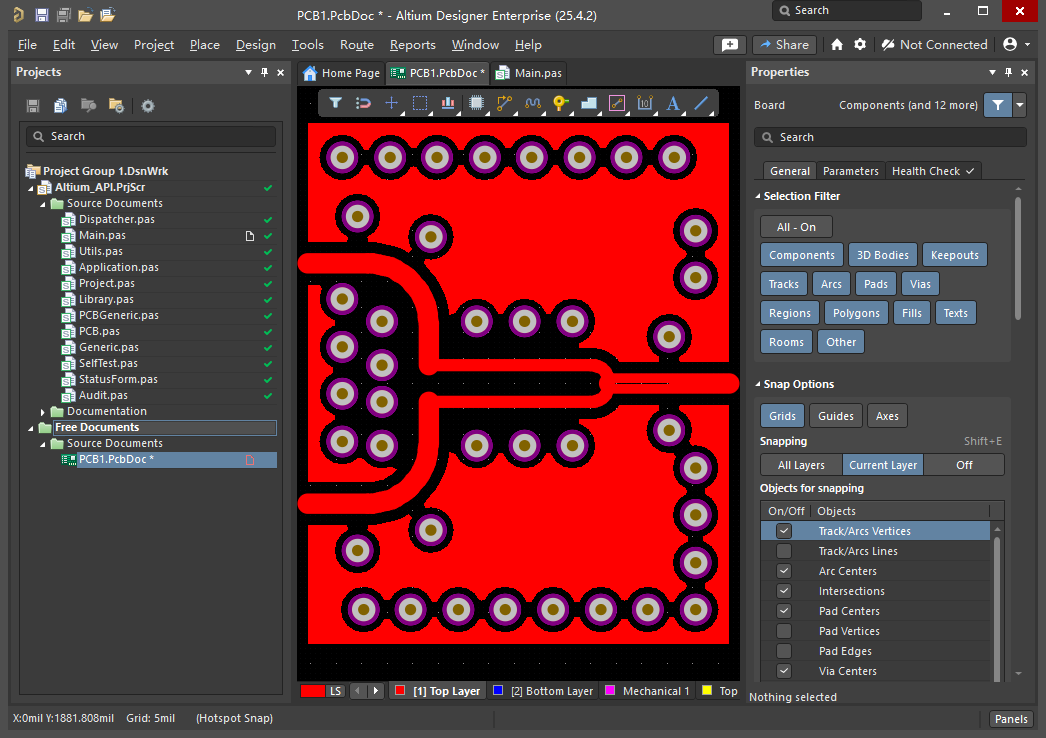
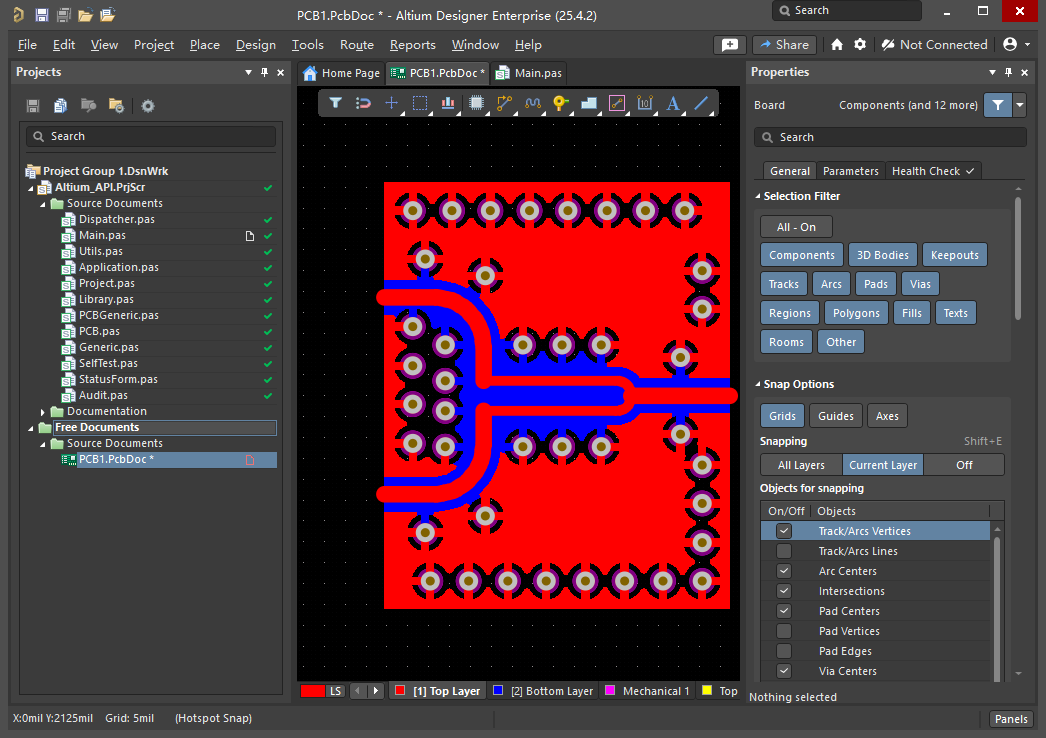
Give the board its ground plane, and its nets
Two bugs that only a real write could find, both caught by looking at
the board rather than at the return values.

The net list was comma-joined; the bridge splits it on "|". Altium
created one net named "RF_IN,GND" and reported success, after which
every track, via and pour asking for "RF_IN" or "GND" missed its lookup
and landed with no net. 87 tracks and 41 vias, all electrically
inert, and nothing anywhere said so.

The writer also never placed a ground plane. The EM model rests on a
solid conductor at z=0 -- that is what the PEC outer boundary is, and
what all 41 stitching vias are drilled down to reach -- but only the
top-side coplanar pour was ever written. The vias landed on bare
laminate and the top pour stayed in the three separate islands its own
traces cut it into. Altium reported five unrouted GND connections and
was right.

WritePlan.polygon becomes WritePlan.polygons, and the ground layer is a
constructor argument rather than an assumption.

After the fix, read back from the live board: tracks, vias, both pours,
every net assignment and unrouted count all match the plan, and all 87
segment coordinates and 41 via positions match exactly.

Three tests pin it: the net list must not be comma-joined, every track
and via must carry a net the plan actually creates, and a ground plane
spanning the routed area must exist.

Changed region(s): [[0.2753, 0.1558, 0.7036, 0.8726], [0.0612, 0.9661, 0.2753, 0.9973]]

diff --git a/src/rf_agent/export/altium.py b/src/rf_agent/export/altium.py
@@ -186,7 +186,7 @@ class WritePlan:
     vias: list[dict] = field(default_factory=list)
     nets: list[str] = field(default_factory=list)
     outline: tuple[int, int, int, int] | None = None
-    polygon: dict | None = None
+    polygons: list[dict] = field(default_factory=list)
     rules: list[dict] = field(default_factory=list)
 
     def summary(self) -> dict:
@@ -195,7 +195,7 @@ class WritePlan:
             "n_vias": len(self.vias),
             "nets": self.nets,
             "outline_mils": list(self.outline) if self.outline else None,
-            "polygon": self.polygon,
+            "polygons": self.polygons,
             "rules": self.rules,
         }
 
@@ -209,9 +209,13 @@ class AltiumWriter:
         layer: str = "TopLayer",
         gnd_net: str = "GND",
         timeout: float = 60.0,
+        ground_layer: str = "BottomLayer",
     ):
         self.origin = origin_mils
         self.layer = layer
+        # The reference conductor the stackup is built on. Every via drops
+        # to it and the top pour's islands are tied together through it.
+        self.ground_layer = ground_layer
         self.gnd_net = gnd_net
         self.timeout = timeout
         self._bridge = None
@@ -363,17 +367,35 @@ class AltiumWriter:
                 }
             )
 
-        # The coplanar ground: one polygon over the board on the signal
-        # layer, poured around the RF nets by the clearance rule below.
-        p.polygon = {
-            "x1": p.outline[0],
-            "y1": p.outline[1],
-            "x2": p.outline[2],
-            "y2": p.outline[3],
-            "net": self.gnd_net,
-            "layer": self.layer,
-            "pour_over": False,
-        }
+        # Two pours, and both are load-bearing.
+        #
+        # The signal layer carries the coplanar ground, poured around the
+        # RF nets by the clearance rule below. The traces cut it into
+        # several islands -- on this divider, an upper half, a lower half
+        # and a pocket between the outputs.
+        #
+        # The bottom layer carries the ground plane those islands are tied
+        # together through, and that every stitching via is drilled down
+        # to reach. It is not decoration: the EM model is built on a solid
+        # conductor at z=0, so a board without it is not the board that
+        # was simulated. Omitting it leaves the vias landing on bare
+        # laminate and the top pour in electrically separate pieces.
+        p.polygons = [
+            {
+                "x1": p.outline[0], "y1": p.outline[1],
+                "x2": p.outline[2], "y2": p.outline[3],
+                "net": self.gnd_net,
+                "layer": self.layer,
+                "pour_over": False,
+            },
+            {
+                "x1": p.outline[0], "y1": p.outline[1],
+                "x2": p.outline[2], "y2": p.outline[3],
+                "net": self.gnd_net,
+                "layer": self.ground_layer,
+                "pour_over": True,
+            },
+        ]
 
         gap_mil = max(1, mm_to_mil(spec.stackup.gap_mm))
         p.rules = [
@@ -427,7 +449,12 @@ class AltiumWriter:
                 steps.append({"step": name, "ok": False, "error": f"{type(e).__name__}: {e}"})
                 return None
 
-        step("nets", "pcb.create_nets_from_list", {"nets": ",".join(plan.nets)})
+        # Pipe-separated, not comma. The bridge splits this list on "|",
+        # so a comma-joined string arrives as a single net literally named
+        # "RF_IN,GND" -- which then makes every later lookup of "RF_IN" or
+        # "GND" miss, and every track, via and the pour lands with no net
+        # at all. The copper looks perfect and is electrically inert.
+        step("nets", "pcb.create_nets_from_list", {"nets": "|".join(plan.nets)})
 
         if create_rule:
             for r in plan.rules:
@@ -480,19 +507,19 @@ class AltiumWriter:
             steps = [s for s in steps if s["step"] != "via"]
             steps.append({"step": "vias", "ok": failed == 0, "placed": placed, "failed": failed})
 
-        if place_pour and plan.polygon:
-            g = plan.polygon
-            step(
-                "polygon",
-                "pcb.place_polygon_rect",
-                {
-                    "x1": str(g["x1"]), "y1": str(g["y1"]),
-                    "x2": str(g["x2"]), "y2": str(g["y2"]),
-                    "net": g["net"], "layer": g["layer"],
-                    "pour_over": "false",
-                },
-                timeout=120.0,
-            )
+        if place_pour:
+            for g in plan.polygons:
+                step(
+                    f"polygon:{g['layer']}",
+                    "pcb.place_polygon_rect",
+                    {
+                        "x1": str(g["x1"]), "y1": str(g["y1"]),
+                        "x2": str(g["x2"]), "y2": str(g["y2"]),
+                        "net": g["net"], "layer": g["layer"],
+                        "pour_over": "true" if g["pour_over"] else "false",
+                    },
+                    timeout=120.0,
+                )
 
         step("save", "application.save_all", {}, timeout=120.0)
 

diff --git a/tests/test_export.py b/tests/test_export.py
@@ -68,9 +68,11 @@ def test_write_plan_is_resolvable_without_altium(design):
     for t in plan.tracks:
         assert isinstance(t["width"], int) and t["width"] >= 1
         assert (t["x1"], t["y1"]) != (t["x2"], t["y2"])
-    # the pour is a polygon on the signal layer carrying the ground net
-    assert plan.polygon["net"] == "GND"
-    assert plan.polygon["layer"] == "TopLayer"
+    # the coplanar pour on the signal layer, and the ground plane the
+    # vias drop to -- both on the ground net
+    layers = {g["layer"]: g for g in plan.polygons}
+    assert set(layers) == {"TopLayer", "BottomLayer"}
+    assert all(g["net"] == "GND" for g in plan.polygons)
     # and the clearance rule matches the EM model's coplanar gap
     assert plan.rules[0]["value"] == mm_to_mil(spec.stackup.gap_mm)
 
@@ -159,3 +161,69 @@ def test_electrically_separate_runs_keep_separate_nets(design):
     groups = AltiumWriter._net_groups(detached)
     assert groups[len(g.paths)] != groups[0]
     assert len(set(groups.values())) == 2
+
+
+def test_nets_are_pipe_separated_for_the_bridge(design, monkeypatch):
+    """The bridge splits the net list on "|".
+
+    Joined with a comma instead, the whole list arrives as one net named
+    "RF_IN,GND". Nothing errors: the nets command succeeds, and then every
+    track, via and polygon that asks for "RF_IN" or "GND" fails its lookup
+    silently and lands with no net. The board looks right in Altium and is
+    electrically inert -- the pour does not connect to its own stitching
+    vias. Caught on real hardware, so it is pinned here.
+    """
+    spec, g = design
+    w = AltiumWriter()
+    sent: list[tuple[str, dict]] = []
+
+    class Bridge:
+        def send_command(self, cmd, params, timeout=None):
+            sent.append((cmd, params))
+            return {"ok": True}
+
+    monkeypatch.setattr(AltiumWriter, "preflight", lambda self: {"ok": True})
+    monkeypatch.setattr(type(w), "bridge", property(lambda self: Bridge()))
+    w.write(g, spec)
+
+    nets = next(p for c, p in sent if c == "pcb.create_nets_from_list")["nets"]
+    assert "," not in nets, f"net list must not be comma-joined, got {nets!r}"
+    assert set(nets.split("|")) == {"RF_IN", "GND"}
+
+
+def test_every_track_and_via_carries_a_net(design):
+    """Copper with no net is copper Altium's connectivity engine ignores."""
+    spec, g = design
+    plan = AltiumWriter().plan(g, spec)
+    assert plan.nets, "the plan must declare its nets"
+    assert all(t["net_name"] for t in plan.tracks), "a track has no net"
+    assert all(v["net"] for v in plan.vias), "a via has no net"
+    assert plan.polygons, "no pour at all"
+    assert all(g["net"] for g in plan.polygons), "a pour has no net"
+    # Whatever the tracks and vias claim must be a net the plan creates.
+    used = {t["net_name"] for t in plan.tracks} | {v["net"] for v in plan.vias}
+    used |= {g["net"] for g in plan.polygons}
+    assert used <= set(plan.nets), f"{used - set(plan.nets)} never created"
+
+
+def test_a_ground_plane_is_placed_under_the_board(design):
+    """The EM model sits on a solid conductor at z=0; the board must too.
+
+    Without a bottom-layer plane every stitching via lands on bare
+    laminate, and the coplanar pour stays in the electrically separate
+    islands the traces cut it into -- on this divider, three of them.
+    Altium reported five unrouted GND connections on the first real
+    write for exactly this reason.
+    """
+    spec, g = design
+    plan = AltiumWriter().plan(g, spec)
+    ground = [p for p in plan.polygons if p["layer"] == "BottomLayer"]
+    assert len(ground) == 1, "exactly one ground plane expected"
+    assert ground[0]["net"] == "GND"
+    # It has to span at least the whole routed area, or the vias at the
+    # edges still land on nothing.
+    x1, y1, x2, y2 = plan.outline
+    assert ground[0]["x1"] <= x1 and ground[0]["y1"] <= y1
+    assert ground[0]["x2"] >= x2 and ground[0]["y2"] >= y2
+    # Every via must reach it.
+    assert all(v["net"] == "GND" for v in plan.vias)

diff --git a/examples/wilkinson_11g6/README.md b/examples/wilkinson_11g6/README.md
@@ -56,7 +56,8 @@ closed, and is worth reading first:
 
 ```
 n_tracks 87   n_vias 41   nets ['RF_IN', 'GND']
-polygon  TopLayer GND 1822,1744 -> 2236,2256
+polygon  TopLayer    GND  1822,1744 -> 2236,2256   (coplanar ground)
+polygon  BottomLayer GND  1822,1744 -> 2236,2256   (ground plane)
 rules    RF_Clearance_10mil (clearance, 10 mil, different_nets)
 ```
 
@@ -64,42 +65,58 @@ To commit you need Altium running with the target PcbDoc open, eda-agent
 installed, and its bridge polling — in Altium: **File → Run Script →
 `Altium_API` → `Dispatcher.pas` → `StartMCPServer`**.
 
-This has been run for real. The screenshot below is the optimised
-divider written into an empty PcbDoc on Altium Designer 25.4.2, and
-[`altium_write.json`](results/altium_write.json) is the plan checked
-against what Altium reports back afterwards:
+This has been run for real, and running it for real is what found two
+bugs that no amount of dry-running would have.
+
+**The board came out electrically inert.** The bridge splits its net
+list on `|`; rf-agent joined it with a comma. Nothing errored — Altium
+cheerfully created a single net named `RF_IN,GND`, after which every
+track, via and pour asking for `RF_IN` or `GND` missed its lookup and
+landed with no net at all. The copper was pixel-perfect and connected
+to nothing.
+
+**There was no ground plane.** The whole EM model rests on a solid
+conductor at z=0 — that is what HFSS's PEC outer boundary *is*, and it
+is what all 41 stitching vias are drilled down to reach. The writer only
+ever placed the top-side coplanar pour, so the vias landed on bare
+laminate, and the top pour stayed in the three electrically separate
+islands its own traces cut it into. Altium reported five unrouted GND
+connections and was right to.
+
+Both are fixed and pinned by tests. After the fix, read back from the
+live board:
 
 | | planned | in Altium | |
 |---|---|---|---|
 | tracks | 87 | 87 | match |
 | vias | 41 | 41 | match |
-| polygons | 1 | 1 | match |
+| pours | 2 | 2 | match |
+| tracks on `RF_IN` | 87 | 87 | match |
+| vias on `GND` | 41 | 41 | match |
+| **unrouted connections** | 0 | **0** | match |
 | routed length | 22.331 mm | 22.410 mm | +0.35 % |
 
-The 0.079 mm of extra copper is the endpoints rounding onto the 25.4 µm
-grid — the same quantisation the design was re-solved against, showing up
-in a second, independent place.
+Every one of the 87 track segments also matches the plan
+coordinate-for-coordinate and width-for-width, and all 41 via positions
+match exactly — zero differences in either direction. The 0.079 mm of
+extra copper is the endpoints rounding onto the 25.4 µm grid, the same
+quantisation the design was re-solved against turning up independently.
 
 <img src="results/altium_written.png" width="620">
 
-Everything in that window came from the spec: 50 Ω feed on the right,
-two 63 Ω arms, two outputs on the left, the via fence tracking each
-trace at its own width-dependent offset, the board-edge ring, the
-stitched GND pour, and a 10 mil clearance rule. No part of it was drawn
-by hand.
+Red is the top-layer coplanar ground, blue the bottom-layer plane
+showing through the gaps. Everything came from the spec: 50 Ω feed on
+the right, two 63 Ω arms, two outputs on the left, the via fence
+tracking each trace at its own width-dependent offset, the board-edge
+ring, and a 10 mil clearance rule. No part of it was drawn by hand.
+[`altium_write.json`](results/altium_write.json) is the full record.
 
-What is *not* there yet, and it matters: the board has **0 pads and 0
-components**. The isolation resistor is a lumped boundary in HFSS, and
-the writer emits only routed tracks, so R1's two solder lands — which
-*are* part of the EM model's copper — never reach Altium. What you get
-instead is a bare gap between the arm ends, because the pour is held
-off that area as a keepout.
-
-So this is a routed, stitched, DRC-ruled RF structure, not yet a
-fabricable PcbDoc. Placing a real 0402 footprint and wiring it to the
-two arms is the remaining step, and it is the step that would also let
-the model carry the part's parasitic inductance instead of assuming it
-away.
+What is still missing, because the screenshot will not tell you: the
+board has **0 pads and 0 components**. The isolation resistor is a
+lumped boundary in HFSS and the writer emits only routed tracks, so
+R1's two solder lands never arrive and the pour keepout leaves a bare
+gap where the chip belongs. This is a routed, stitched, net-clean RF
+structure — not yet a fabricable PcbDoc.
 
 ## What happened
 

diff --git a/README.md b/README.md
@@ -53,8 +53,10 @@ improved 4.2 dB, the match moved 860 MHz onto centre, and the balance
 metrics came in 30× and 50× inside their limits.
 
 The winner was then written into a live Altium session over the
-eda-agent bridge and read back to check it: 87 tracks, 41 vias and the
-stitched pour all match the plan, with routed length agreeing to 0.35 %.
+eda-agent bridge and read back to check it: 87 tracks, 41 vias, both
+pours, every net assignment and zero unrouted connections all match the
+plan. Doing that for real is what caught two bugs a dry run cannot —
+a net list joined with the wrong delimiter, and a missing ground plane.
 [Screenshot and the plan-vs-actual record](examples/wilkinson_11g6/#stage-3--into-altium-needs-altium--the-eda-agent-bridge)
 are committed.
 
